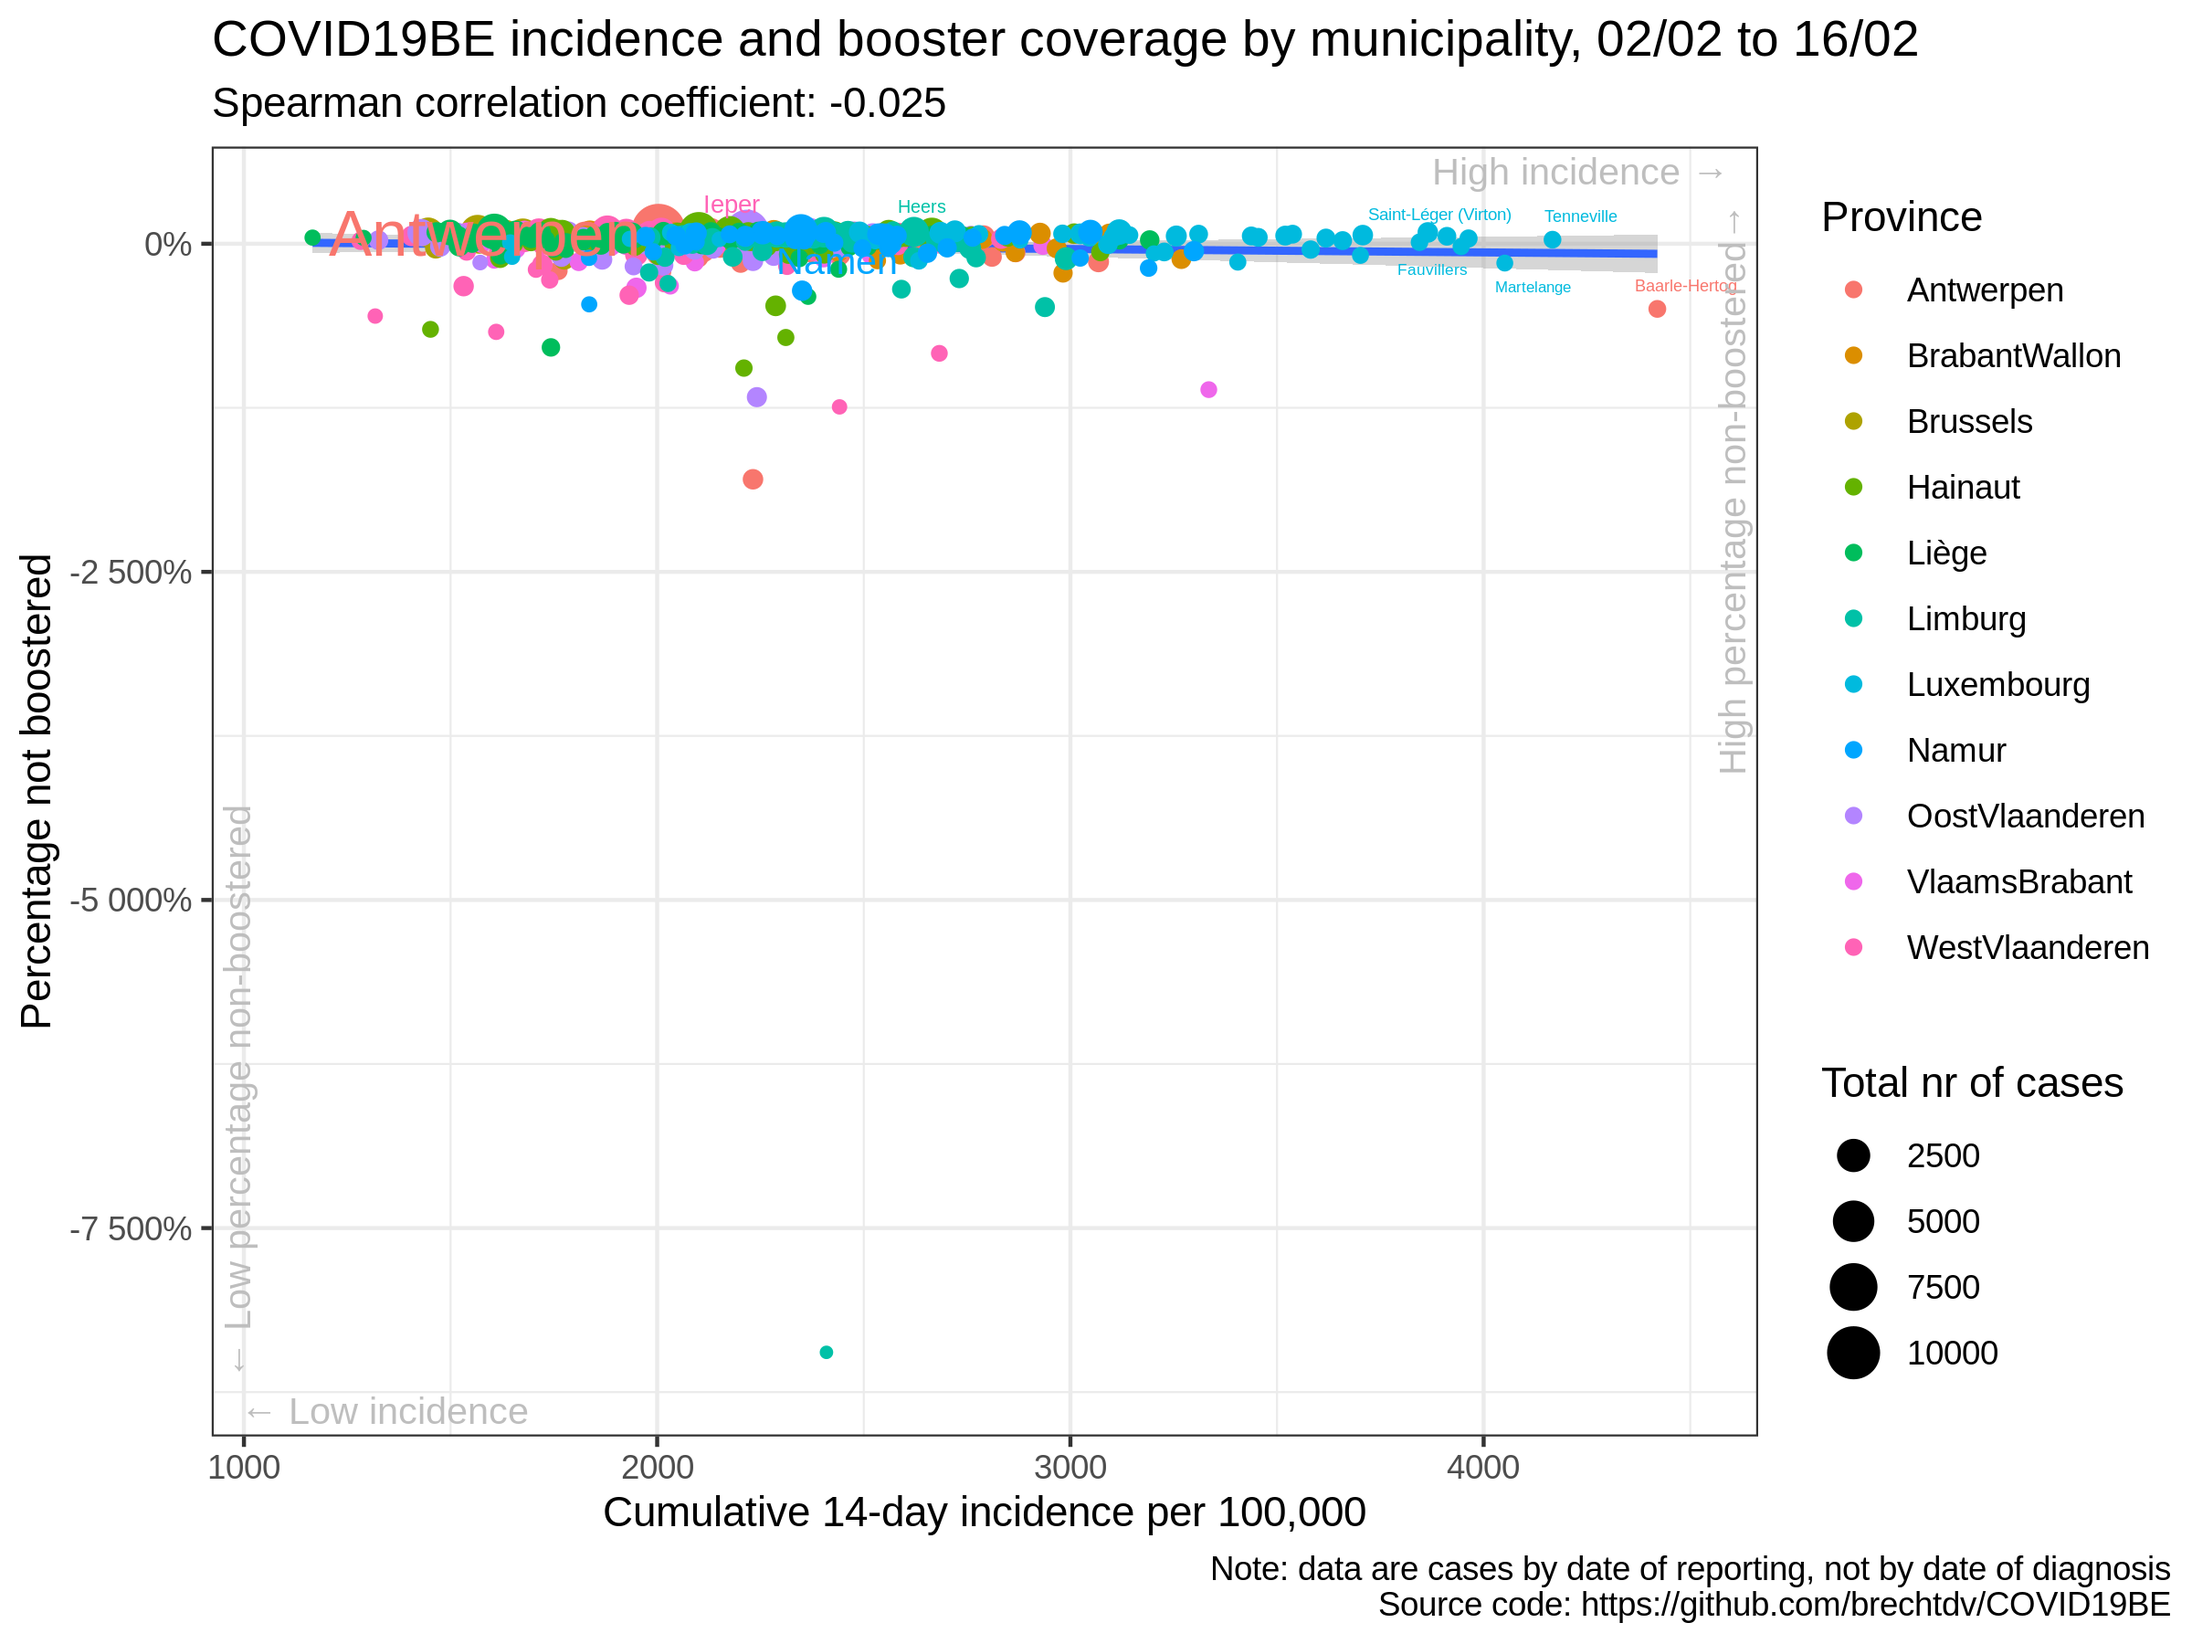
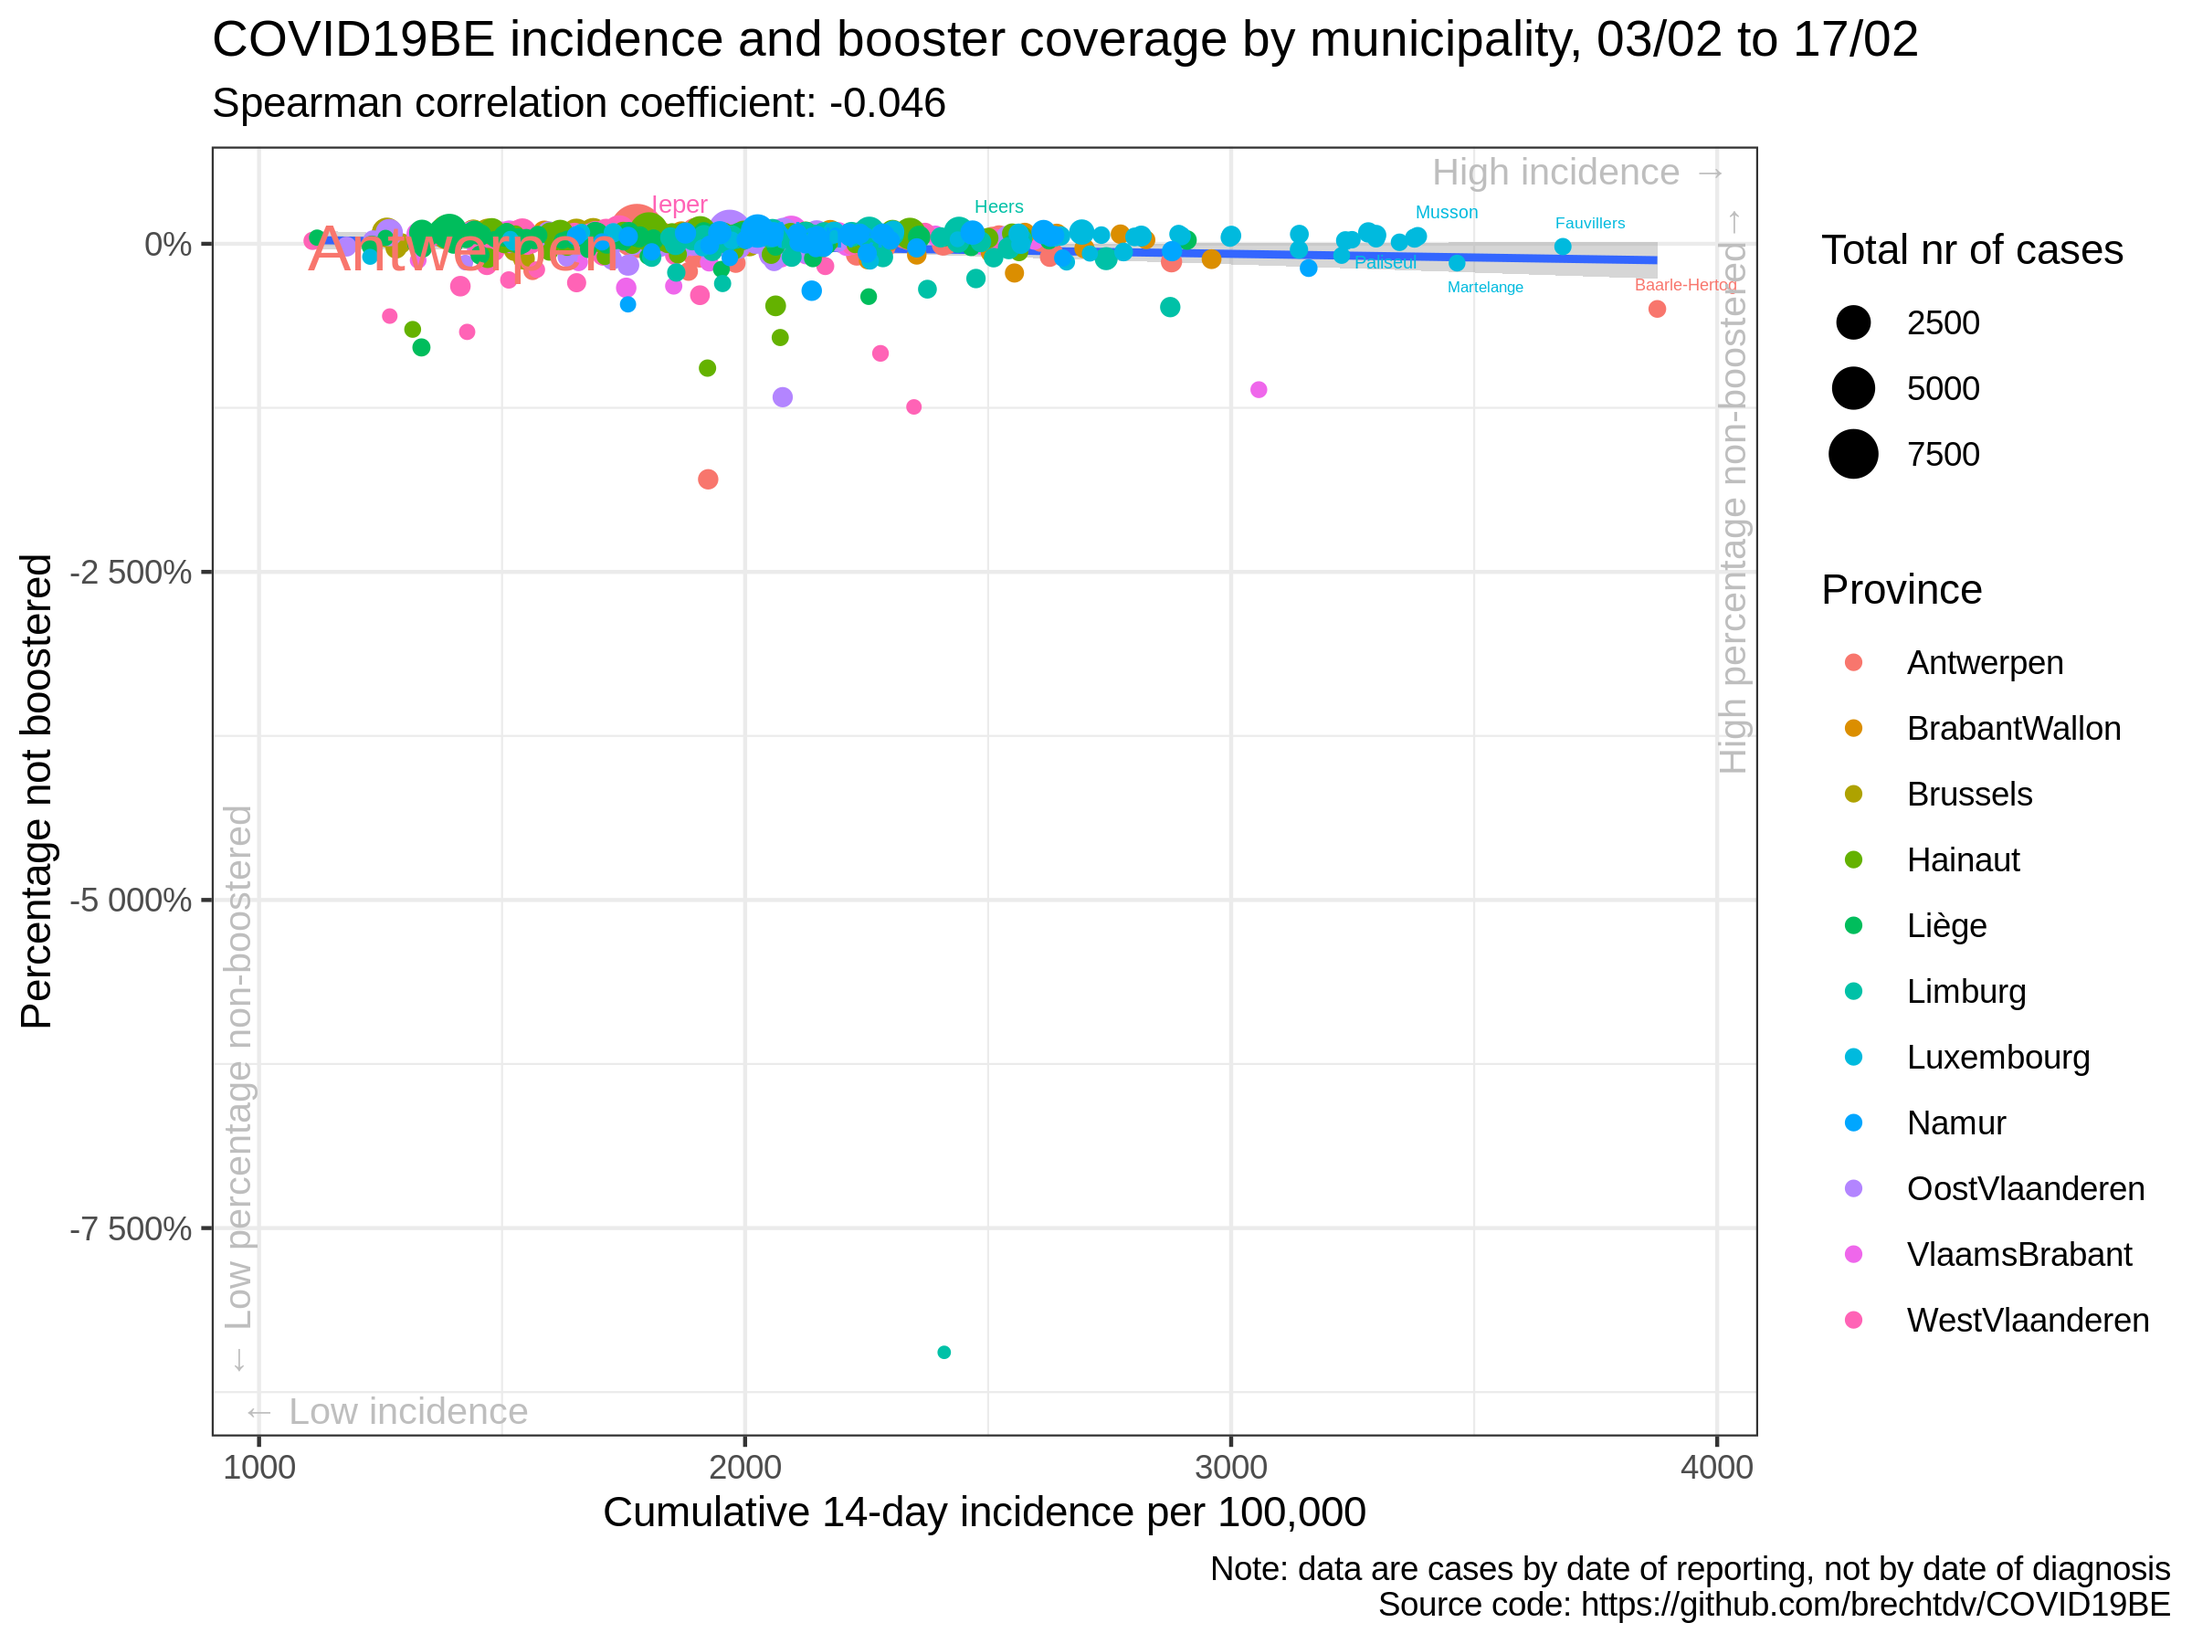
update situation

diff --git a/vaccination/README.md b/vaccination/README.md
@@ -17,35 +17,35 @@
 
 |                | estimate.rho | p.value |
 | :------------- | -----------: | ------: |
-| Antwerpen      |      \-0.046 |   0.709 |
-| BrabantWallon  |      \-0.454 |   0.018 |
-| Brussels       |      \-0.284 |   0.237 |
-| Hainaut        |        0.068 |   0.581 |
-| Liège          |      \-0.117 |   0.289 |
-| Limburg        |      \-0.039 |   0.806 |
-| Luxembourg     |      \-0.136 |   0.376 |
-| Namur          |      \-0.009 |   0.960 |
-| OostVlaanderen |        0.106 |   0.418 |
-| VlaamsBrabant  |      \-0.149 |   0.235 |
-| WestVlaanderen |        0.094 |   0.457 |
-| Belgium        |      \-0.027 |   0.521 |
+| Antwerpen      |      \-0.073 |   0.551 |
+| BrabantWallon  |      \-0.404 |   0.038 |
+| Brussels       |      \-0.216 |   0.373 |
+| Hainaut        |        0.078 |   0.521 |
+| Liège          |      \-0.073 |   0.511 |
+| Limburg        |      \-0.055 |   0.727 |
+| Luxembourg     |      \-0.101 |   0.511 |
+| Namur          |      \-0.073 |   0.665 |
+| OostVlaanderen |        0.095 |   0.470 |
+| VlaamsBrabant  |      \-0.117 |   0.350 |
+| WestVlaanderen |        0.117 |   0.356 |
+| Belgium        |      \-0.042 |   0.316 |
 
 ### Correlation cumulative incidence vs booster rate
 
 |                | estimate.rho | p.value |
 | :------------- | -----------: | ------: |
-| Antwerpen      |      \-0.051 |   0.675 |
-| BrabantWallon  |      \-0.460 |   0.017 |
-| Brussels       |      \-0.323 |   0.177 |
-| Hainaut        |        0.073 |   0.552 |
-| Liège          |      \-0.114 |   0.303 |
-| Limburg        |      \-0.059 |   0.711 |
-| Luxembourg     |      \-0.137 |   0.372 |
-| Namur          |        0.002 |   0.991 |
-| OostVlaanderen |        0.104 |   0.430 |
-| VlaamsBrabant  |      \-0.182 |   0.146 |
-| WestVlaanderen |        0.089 |   0.486 |
-| Belgium        |      \-0.025 |   0.542 |
+| Antwerpen      |      \-0.082 |   0.500 |
+| BrabantWallon  |      \-0.416 |   0.032 |
+| Brussels       |      \-0.265 |   0.272 |
+| Hainaut        |        0.083 |   0.497 |
+| Liège          |      \-0.069 |   0.530 |
+| Limburg        |      \-0.072 |   0.650 |
+| Luxembourg     |      \-0.097 |   0.530 |
+| Namur          |      \-0.063 |   0.711 |
+| OostVlaanderen |        0.094 |   0.474 |
+| VlaamsBrabant  |      \-0.154 |   0.220 |
+| WestVlaanderen |        0.110 |   0.384 |
+| Belgium        |      \-0.046 |   0.269 |
 
 ### Data source
 
